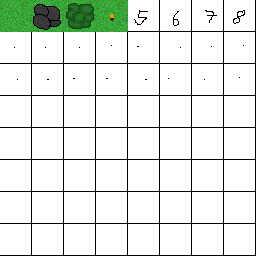
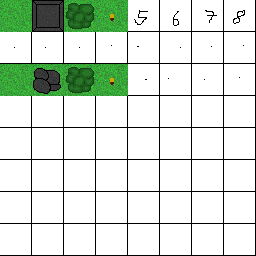
implemented normal maps

Changed region(s): [[0.0, 0.25, 0.5, 0.375], [0.125, 0.0, 0.25, 0.125]]

diff --git a/Game++ Tile/src/de/nerogar/game/Map.java b/Game++ Tile/src/de/nerogar/game/Map.java
@@ -98,11 +98,14 @@ public class Map {
 		shader.reloadFiles();
 		shader.compile(lightString);
 
-		TextureBank.instance.bindTexture("tiles.png");
+		TextureBank.instance.bindTexture("tiles.png", 0);
+		TextureBank.instance.bindTexture("tiles normal.png", 1);
 		shader.activate();
 
 		glUniform2f(glGetUniformLocation(shader.shaderHandle, "offset"), offsX, offsY);
 		glUniform1f(glGetUniformLocation(shader.shaderHandle, "scale"), tileSize);
+		glUniform1i(glGetUniformLocation(shader.shaderHandle, "colorTex"), 0);
+		glUniform1i(glGetUniformLocation(shader.shaderHandle, "normalTex"), 1);
 
 		float tilesX = (Display.getWidth() / tileSize) + 1f;
 		float tilesY = (Display.getHeight() / tileSize) + 1f;
@@ -138,6 +141,10 @@ public class Map {
 		}
 		shader.deactivate();
 
+	}
+
+	public void setTile(int x, int y, Tile tile) {
+		tileIDs[x + y * size] = tile.id;
 	}
 
 	public void load(int[] tileIDs, int size) {

diff --git a/Game++ Tile/src/de/nerogar/game/entity/EntityPlayer.java b/Game++ Tile/src/de/nerogar/game/entity/EntityPlayer.java
@@ -40,6 +40,10 @@ public class EntityPlayer extends Entity {
 			moveY(moveSpeed * time);
 		}
 
+		if (Keyboard.isKeyDown(Keyboard.KEY_E)) {
+			map.setTile((int) posX, (int) posY, Map.TORCH);
+		}
+
 		if (Keyboard.isKeyDown(Keyboard.KEY_1)) {
 			selectedWeapon = 0;
 		} else if (Keyboard.isKeyDown(Keyboard.KEY_2) && weapons.size() > 1) {
@@ -50,13 +54,13 @@ public class EntityPlayer extends Entity {
 			selectedWeapon = 3;
 		}
 
-		for(Weapon weapon:weapons){
+		for (Weapon weapon : weapons) {
 			weapon.update(time);
 		}
-		
+
 		if (Mouse.isButtonDown(0)) {
 			float targetX = ((float) Mouse.getX()) / map.getTileSize() + map.getOffsX();
-			float targetY = (float)(Display.getHeight() - Mouse.getY()) / map.getTileSize() + map.getOffsY();
+			float targetY = (float) (Display.getHeight() - Mouse.getY()) / map.getTileSize() + map.getOffsY();
 
 			weapons.get(selectedWeapon).start(targetX, targetY);
 		}
